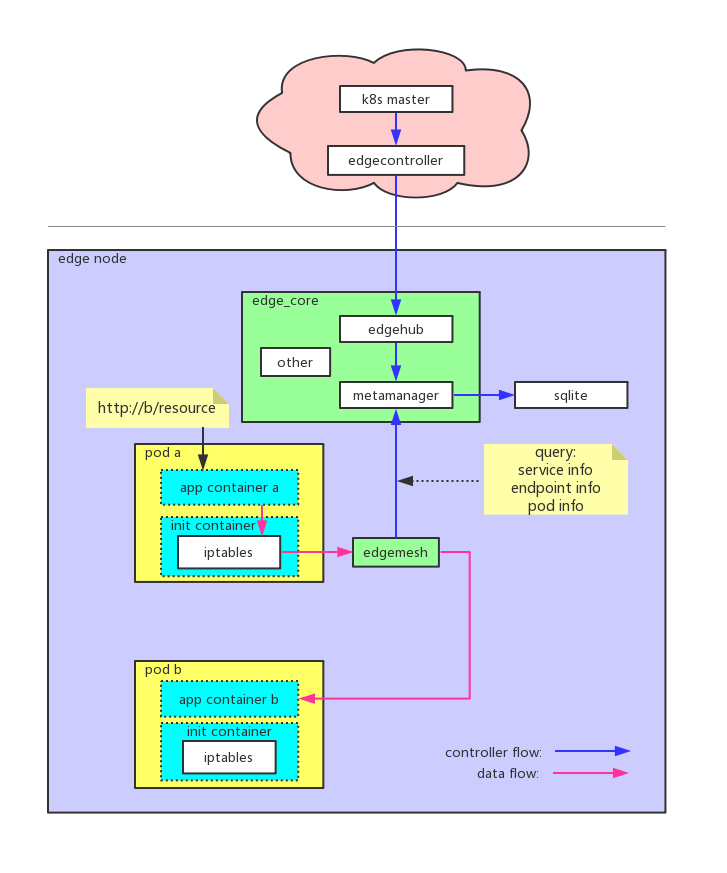
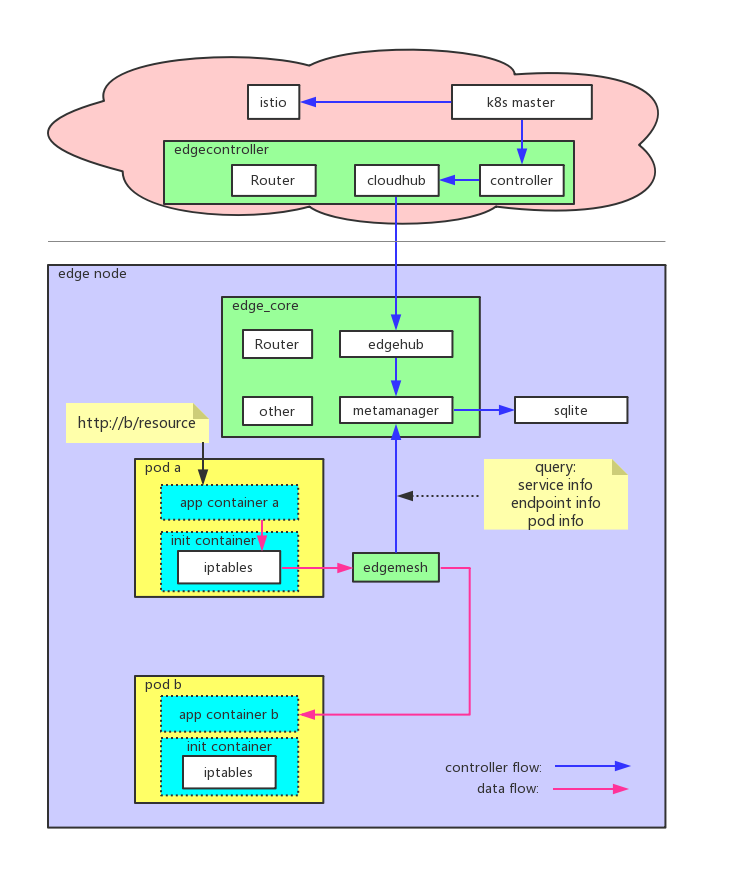
add istio and router

Changed region(s): [[0.0605, 0.0309, 0.9381, 0.9588], [0.6052, 0.8351, 0.8776, 0.8969], [0.6355, 0.5258, 0.6657, 0.5876]]

diff --git a/README.md b/README.md
@@ -7,30 +7,45 @@
 
 ![edge](docs/images/inedge.jpg)
 
-- 在k8s中创建Service，设置label
-- edgecontroller watch到Service的事件，同步到edgehub，经metamanager保存到sqlite
-- 用户应用A请求用户应用B时，流量通过iptables规则全部劫持到edgemesh
+- 在k8s中创建Service，设置selector
+- edgecontroller watch到Service/Endpoint的事件，同步到edgehub，经metamanager保存到sqlite
+- 用户边缘应用A请求用户应用B时，流量通过iptables规则全部劫持到edgemesh
 - edgemesh解析应用层协议，调用metamanager查询Service/Endpoint/Pod等相关信息，根据负载均衡等策略选择目的地址，转发请求到同节点的用户边缘应用B
 
 ## 边边协同
 
 ![edge2edge](docs/images/edge2edge.jpg)
 
-- 在k8s中创建Service，设置label
-- edgecontroller watch到Service的事件，同步到edgehub，经metamanager保存到sqlite
-- 用户应用A跨接点请求用户应用B时，流量通过iptables规则全部劫持到edgemesh
-- edgemesh解析应用层协议，调用metamanager查询Service/Endpoint/Pod等相关信息，根据负载均衡等策略选择目的地址，封装请求为```"beehive/pkg/core/model".Message```并转发请求到目的节点的edgemesh
+- 在k8s中创建Service，设置selector
+- edgecontroller watch到Service/Endpoint的事件，同步到edgehub，经metamanager保存到sqlite
+- 用户边缘应用A跨节点请求用户边缘应用B时，流量通过iptables规则全部劫持到edgemesh
+- edgemesh解析应用层协议，调用metamanager查询Service/Endpoint/Pod等相关信息，根据负载均衡等策略选择目的地址，封装请求为```"beehive/pkg/core/model".Message```格式并转发请求到目的节点的edgemesh
 - 目的节点edgemesh解析```"beehive/pkg/core/model".Message```并根据配置的QPS策略处理请求，转发请求到用户边缘应用B
 
 ## 边云协同
 
 ![edge2cloud](docs/images/edge2cloud.jpg)
 
-- 在k8s中创建Service，设置label
-- edgecontroller watch到Service的事件，同步到edgehub，经metamanager保存到sqlite
-- 用户应用A跨接点请求用户云上服务B时，流量通过iptables规则全部劫持到edgemesh
-- edgemesh解析应用层协议，调用metamanager查询Service/Endpoint/Pod等相关信息，根据负载均衡等策略选择目的地址，封装请求为```"beehive/pkg/core/model".Message```并转发到edgecontroller
-- edgecontroller解析```"beehive/pkg/core/model".Message```根据配置的QPS策略处理请求，转发请求到用户云上服务B
+- 在k8s中创建Service，设置selector;创建Router Endpoint/Rule（数据结构见<a href="#### Router">Router</a>）
+- edgecontroller watch到Service/Endpoint的事件：
+    - 根据Router Endpoint/Rule在edgecontroller的Router中创建Rule
+    - 同时同步到edgehub，经metamanager保存到sqlite
+- 用户应用A请求用户云上服务B时，流量通过iptables规则全部劫持到edgemesh
+- edgemesh解析应用层协议，调用metamanager查询Service/Endpoint/Pod等相关信息，根据负载均衡等策略选择目的地址，封装请求为```"beehive/pkg/core/model".Message```转发到edge_core中的Router然后转发到edgecontroller的Router
+- edgecontroller中的Router解析```"beehive/pkg/core/model".Message```根据配置的QPS策略处理请求，转发请求到用户云上服务B
+
+### 云边协同
+
+![cloud2edge](docs/images/cloud2edge.jpg)
+
+- 在k8s中创建Service，设置selector；创建Router Endpoint/Rule（数据结构见<a href="#### Router">Router</a>）
+- edgecontroller watch到Service/Endpoint的事件：
+    - 同步Router Endpoint/Rule到edgehub，根据Router Endpoint/Rule在edge_core的Router中创建Rule
+    - 同步Service/Endpoint到edgehub，经metamanager保存到sqlite
+- 用户云上服务B请求用户边缘应用A时，流量经过istio，根据负载均衡等策略选择目的地址，封装成```"beehive/pkg/core/model".Message```格式并转发到Router
+- Router转发流量到edgehub，edgehub解析```"beehive/pkg/core/model".Message```并转发到edgemesh
+- edgemesh解析应用层协议，调用metamanager查询Service/Endpoint/Pod等相关信息，根据服务端QPS配置处理请求
+- 转发请求到用户边缘应用A
 
 ## edgemesh内部实现
 
@@ -45,3 +60,65 @@
     - 目的地址是跨节点应用的封装请求为```"beehive/pkg/core/model".Message```格式并通过edgehub转发到目的节点edgemesh的对应协议server，根据服务端QPS策略处理请求
     - 目的地址是云上服务的封装请求为```"beehive/pkg/core/model".Message```格式并通过edgehub转发到云上的edgecontroller，再转发到目的服务
 - 通过对应请求的客户端转发请求到用户边缘应用
+
+### 附录
+#### Router
+##### Endpoint
+```go
+// Endpoint define how to access external service
+type Endpoint struct {
+	// ID is the ID of the endpoint
+	ID         string    `orm:"column(id); size(36); pk" json:"id" yaml:"id"`
+	// Type is type of the endpoint
+	Type       string    `orm:"column(type); size(64)" json:"type" yaml:"type"`
+	// Name is name of the endpoint
+	Name       string    `orm:"column(name); size(64)" json:"name" yaml:"name"`
+	// ProjectID can be used to differentiate endpoints across projects
+	ProjectID  string    `orm:"column(project_id); size(36); index; null" json:"project_id" yaml:"project_id"`
+	// IsShared is flag to check if endpoint is shared
+	IsShared   bool      `orm:"column(is_shared); default(false)" json:"is_shared" `
+	// Properties is map used to store properties of an Endpoint
+	Properties Map       `orm:"column(properties); size(10240)" json:"properties" yaml:"properties"`
+	// CreatedAt is endpoint creation timestamp
+	CreatedAt  time.Time `orm:"column(created_at); auto_now_add; type(datetime)" json:"created_at" `
+	// UpdatedAt is last endpoint updation timestamp
+	UpdatedAt  time.Time `orm:"column(updated_at); auto_now; type(datetime)" json:"updated_at" `
+	// Rule is reverse mapping of Rules of this endpoint
+	Rule       []*Rule   `orm:"reverse(many)" json:"-"`
+}
+```
+##### Rule
+```go
+// Rule define message translate from Endpoint to Endpoint
+type Rule struct {
+	// ID is unique id of rule
+	ID              string    `orm:"column(id); size(36); pk" json:"id" yaml:"id"`
+	// Name is the name of the Rule
+	Name            string    `orm:"column(name); size(64)" json:"name" yaml:"name"`
+	// ProjectID can be used to differentiate rules across projects
+	ProjectID       string    `orm:"column(project_id); size(36); index" json:"project_id" yaml:"project_id"`
+	// DomainID is the domain from where the source is accessed
+	DomainID        string    `orm:"column(domain_id); size(36); index" json:"domain_id" yaml:"domain_id"`
+	// Source is the source Endpoint
+	Source          *Endpoint `orm:"column(source); rel(fk)" json:"source" yaml:"source"`
+	// SourceResource is a map used to store resources required for source
+	SourceResource  Map       `orm:"column(source_resource); size(1024)" json:"source_resource" yaml:"source_resource"`
+	// Target is target endpoint
+	Target          *Endpoint `orm:"column(target); rel(fk)" json:"target" yaml:"target"`
+	// TargetResource is a map used to store resources required for target
+	TargetResource  Map       `orm:"column(target_resource); size(1024)" json:"target_resource" yaml:"target_resource"`
+	// InUse is flag to check if rule is in use
+	InUse           bool      `orm:"column(in_use); default(true)" json:"in_use" yaml:"in_use"`
+	// IsDeleted is flag to check if rule is deleted
+	IsDeleted       bool      `orm:"column(is_deleted); default(false)" json:"is_deleted" `
+	// CreatedAt is rule creation timestamp
+	CreatedAt       time.Time `orm:"column(created_at); auto_now_add; type(datetime)" json:"created_at" `
+	// UpdatedAt is last rule updation timestamp
+	UpdatedAt       time.Time `orm:"column(updated_at); auto_now; type(datetime)" json:"updated_at" `
+	// SuccessMessages is the number of success messages for this rule
+	SuccessMessages uint64    `orm:"column(success_messages); default(0)" json:"success_messages" `
+	// FailMessages in the number of fail messages for this rule
+    FailMessages    uint64    `orm:"column(fail_messages); default(0)" json:"fail_messages" `
+    // Error is reverse maping of error messages for this rule
+    Error           []*Error  `orm:"reverse(many)" json:"-"`
+```
